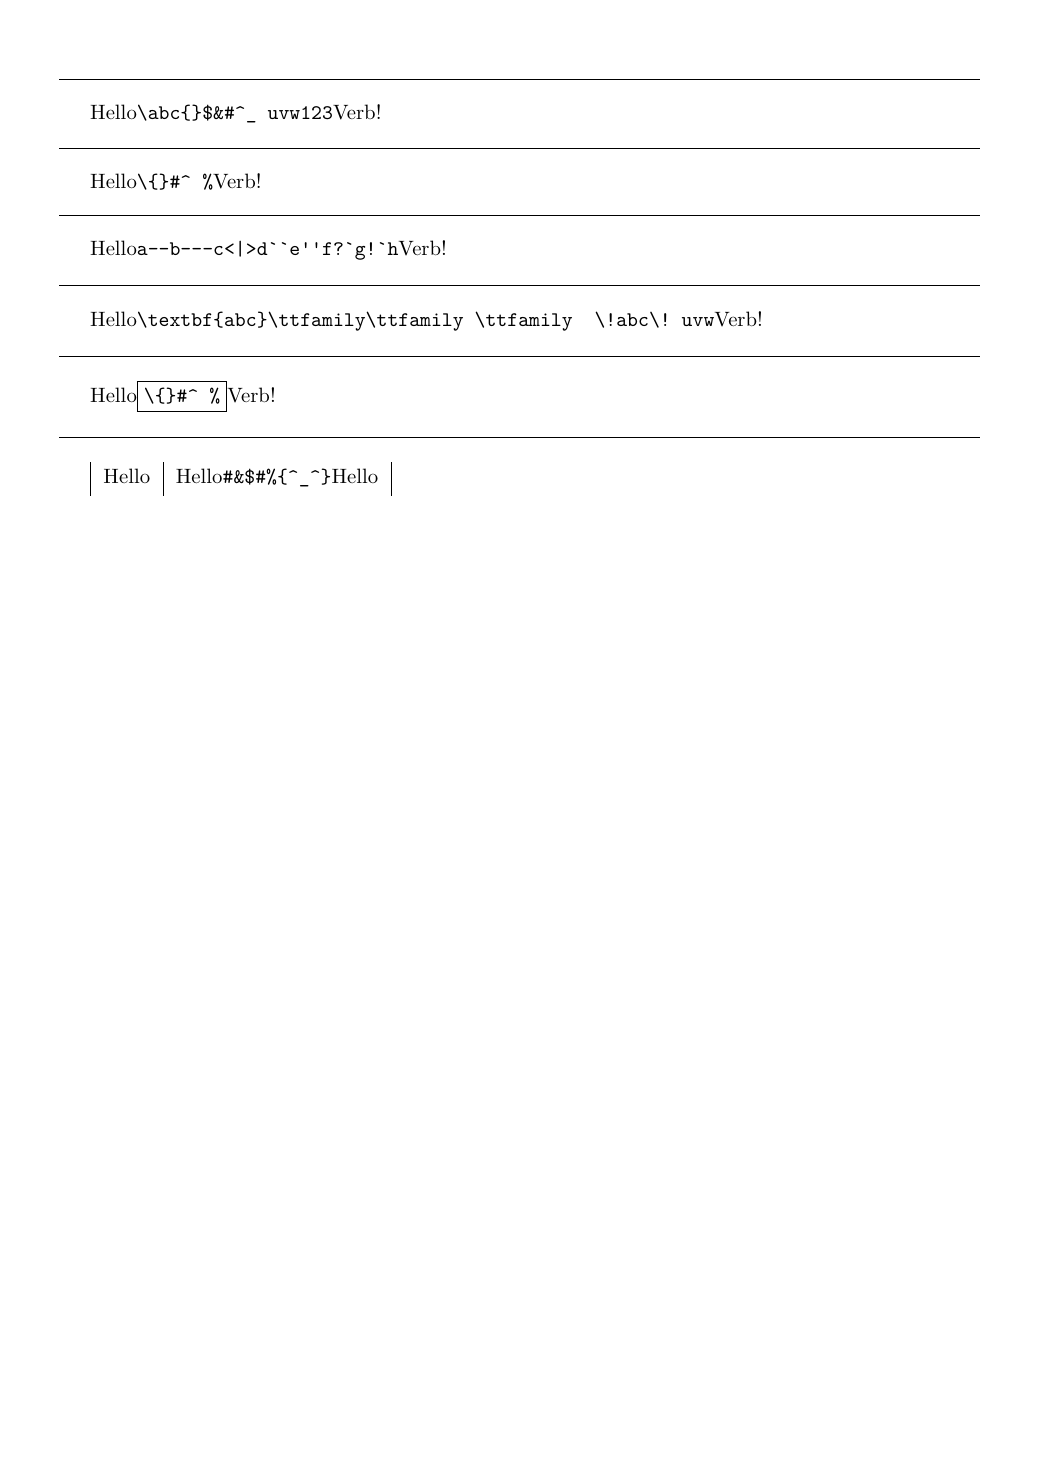
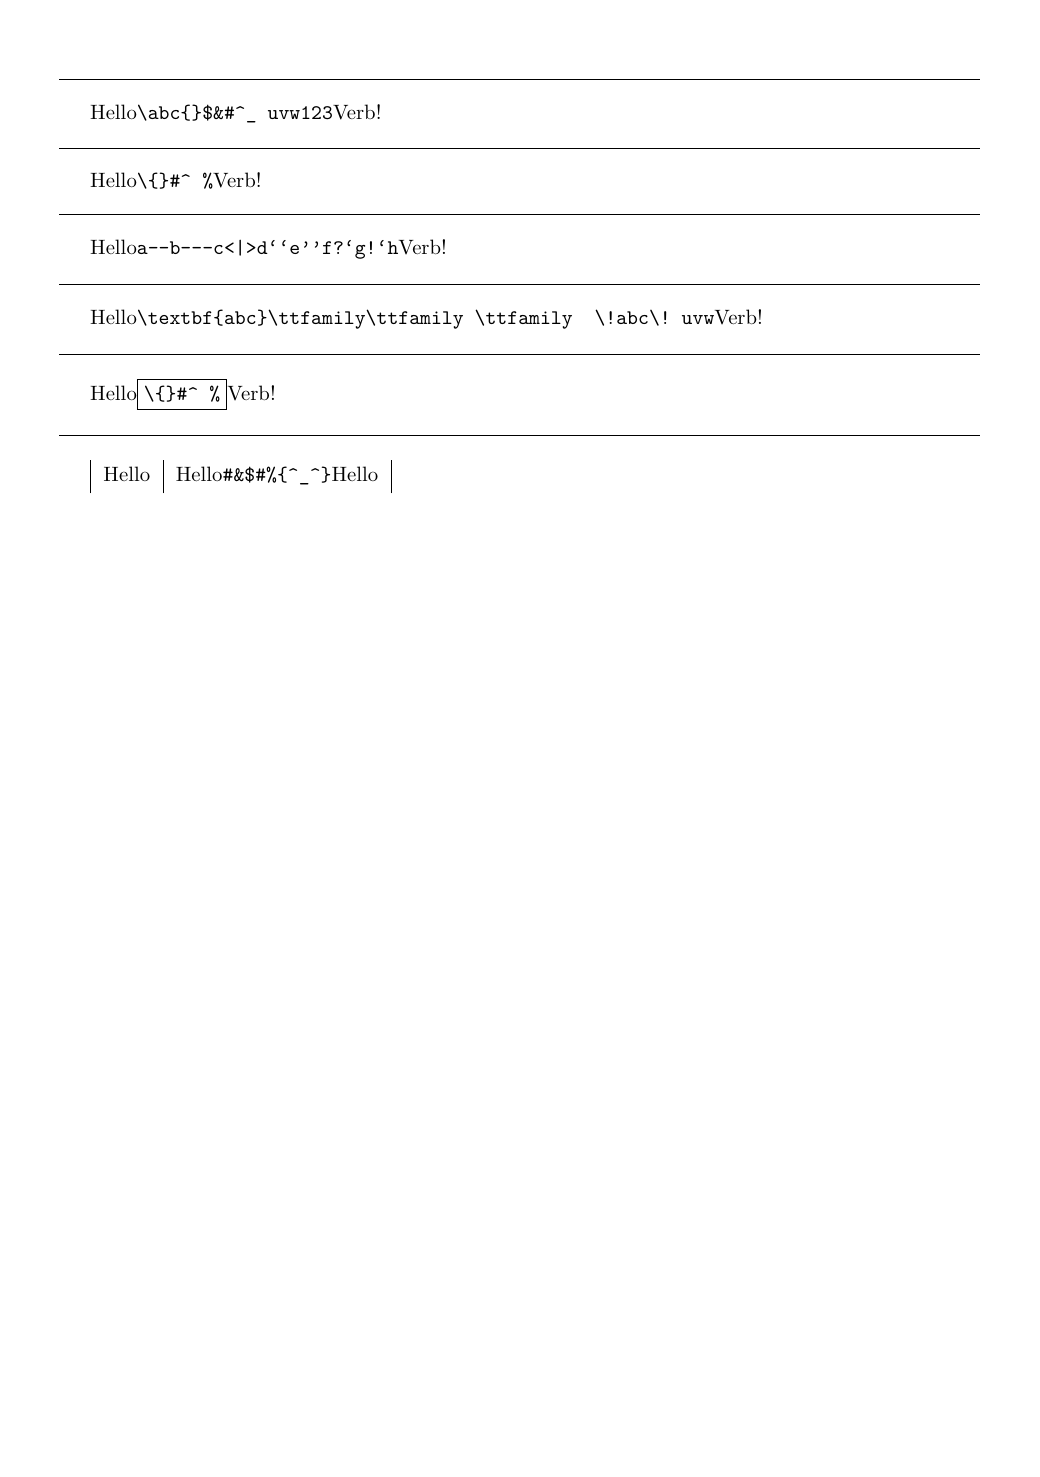
update testfiles (#17)

diff --git a/testfiles/fake-001.tex b/testfiles/fake-001.tex
@@ -4,6 +4,7 @@
 
 \input{regression-test}
 
+\usepackage[T1]{fontenc} % see issue #17
 \usepackage{codehigh}
 \usepackage{tabularray}
 \SetTblrTracing{none}
